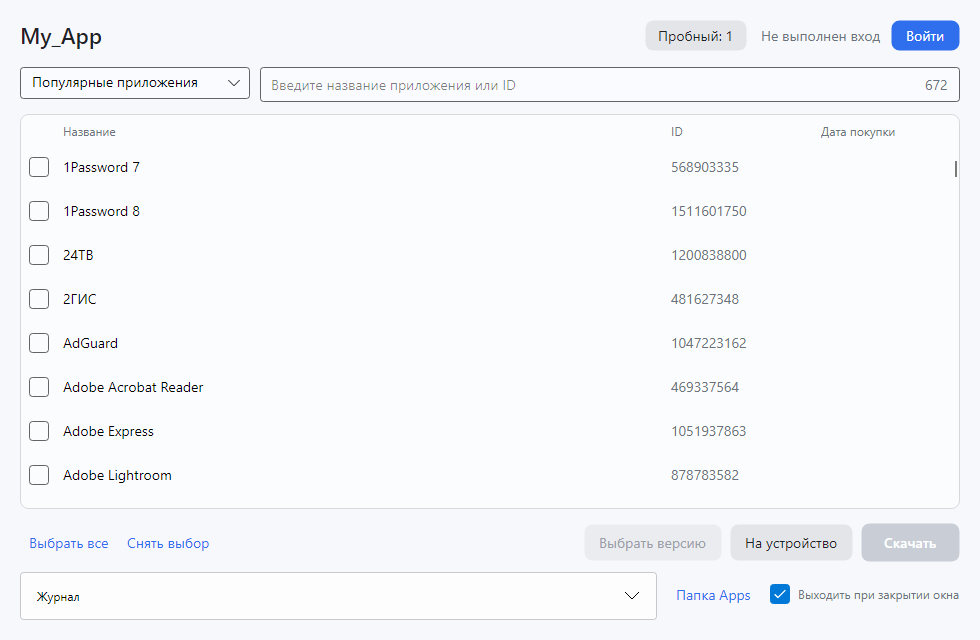
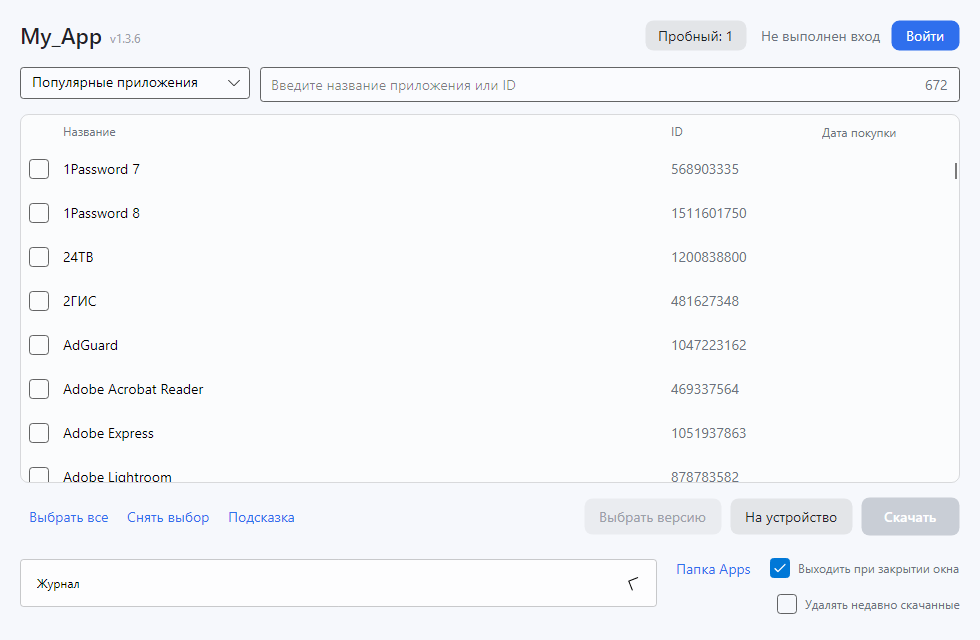
Guide: updated screenshots and steps (offloaded apps, other folder, help)

diff --git a/guide.html b/guide.html
@@ -41,7 +41,7 @@
   <main class="wrap doc">
 
     <h1>Инструкция по шагам</h1>
-    <p>Пять шагов от запуска до приложения на iPhone. Красные рамки на скриншотах показывают, куда нажимать.</p>
+    <p>Шесть шагов от запуска до приложения на iPhone. Красные рамки на скриншотах показывают, куда нажимать. Версия программы написана серым справа от названия в верхнем углу окна. Если что-то забыли, нажмите <b>«Подсказка»</b> под списком (см. <a href="#help">внизу страницы</a>).</p>
 
     <div class="important">
       <p><b>Важно.</b> Скачать можно только те приложения, которые уже были загружены на ваш Apple ID, в том числе те, которые потом убрали из App Store
@@ -55,8 +55,8 @@
       <p>Нажмите <b>«Войти»</b> в правом верхнем углу окна.</p>
       <div class="shot">
         <img src="img/guide/g1_main.png" alt="Главное окно My_App, кнопка «Войти» в правом верхнем углу" width="980" height="640" loading="lazy">
-        <span class="mark-box" style="left:90.8%;top:2.6%;width:7.6%;height:5.8%"></span>
-        <span class="mark-label" style="left:74%;top:9.4%">Нажмите «Войти»</span>
+        <span class="mark-box" style="left:90.8%;top:2.7%;width:7.6%;height:5.6%"></span>
+        <span class="mark-label" style="left:78%;top:16%">Нажмите «Войти»</span>
       </div>
     </section>
 
@@ -95,8 +95,8 @@
       <div class="shot">
         <img src="img/guide/g4_selected.png" alt="Отмечены два приложения, кнопка «Скачать (2)» активна" width="980" height="640" loading="lazy">
         <span class="mark-box" style="left:2.4%;top:24%;width:3.4%;height:10.8%"></span>
-        <span class="mark-box" style="left:85.5%;top:81.4%;width:12.6%;height:6.8%"></span>
-        <span class="mark-label" style="left:61%;top:90%">Затем «Скачать»</span>
+        <span class="mark-box" style="left:85.5%;top:77.2%;width:12.9%;height:7%"></span>
+        <span class="mark-label" style="left:80%;top:69.8%">Затем «Скачать»</span>
       </div>
     </section>
 
@@ -104,12 +104,52 @@
       <h2><span class="num">5</span> Поставьте приложение на iPhone</h2>
       <p>Подключите iPhone кабелем, разблокируйте и нажмите «Доверять этому компьютеру». В My_App нажмите <b>«На устройство»</b>. В окне отметьте
         свой iPhone и нужный файл и нажмите <b>«Установить»</b>. На Windows для связи с iPhone нужен драйвер Apple: программа сама подскажет, если его нет.</p>
+      <p>Файлы берутся из папки Apps. Если нужные файлы лежат в другом месте, нажмите маленькую кнопку с папкой справа над списком файлов и выберите папку.</p>
       <div class="shot">
         <img src="img/guide/g5_install.png" alt="Окно установки на устройство: список устройств и файлов, кнопка «Установить»" width="980" height="640" loading="lazy">
-        <span class="mark-box" style="left:17.4%;top:27.2%;width:2.8%;height:5.9%"></span>
-        <span class="mark-box" style="left:17.4%;top:49.6%;width:2.8%;height:5.9%"></span>
-        <span class="mark-box" style="left:16.8%;top:85.2%;width:10.7%;height:6.4%"></span>
-        <span class="mark-label" style="left:28.5%;top:86.4%">Отметьте iPhone и файл, затем «Установить»</span>
+        <span class="mark-box" style="left:17.4%;top:27.2%;width:2.8%;height:4.4%"></span>
+        <span class="mark-box" style="left:17.4%;top:51.8%;width:2.8%;height:4.4%"></span>
+        <span class="mark-box" style="left:16.9%;top:79.8%;width:10.6%;height:5.8%"></span>
+        <span class="mark-box" style="left:79.2%;top:41%;width:3.7%;height:4.8%"></span>
+        <span class="mark-box" style="left:62.4%;top:79.6%;width:20.9%;height:13.3%"></span>
+        <span class="mark-label" style="left:28.5%;top:86.6%">Отметьте iPhone и файл, затем «Установить»</span>
+        <span class="mark-label" style="left:64.5%;top:41.2%">Другая папка</span>
+        <span class="mark-label" style="left:63.5%;top:93.5%">Шаг 6: сгруженные</span>
+      </div>
+    </section>
+
+    <section class="guide-step" id="step6">
+      <h2><span class="num">6</span> Если приложение пропало с телефона (сгружено)</h2>
+      <p>Бывает, что приложение «сгружено»: на iPhone остался значок с облачком, а самого приложения нет (например, его убрали из App Store). My_App умеет находить такие
+        приложения и ставить их обратно.</p>
+      <p>В окне «На устройство» нажмите <b>«Приложения на iPhone»</b>: откроется весь список приложений телефона со значками, сгруженные показаны первыми.</p>
+      <div class="shot">
+        <img src="img/guide/g6_phoneapps.png" alt="Список приложений на iPhone со значками: сгруженные с облачком показаны первыми" width="980" height="640" loading="lazy">
+        <span class="mark-box" style="left:71%;top:18.4%;width:10%;height:17%"></span>
+        <span class="mark-label" style="left:56%;top:37%">Сгруженные (облачко)</span>
+      </div>
+      <p>Чтобы вернуть их, нажмите оранжевую кнопку <b>«Сгруженные приложения»</b> (она под кнопкой «Приложения на iPhone»). Программа найдёт их в истории покупок <b>того же Apple ID</b>,
+        под которым вы вошли. Отметьте нужные галочками и нажмите <b>«Скачать и установить»</b>: приложения скачиваются и ставятся на iPhone по одному, а файл после установки удаляется
+        из папки Apps.</p>
+      <div class="shot">
+        <img src="img/guide/g7_restore.png" alt="Сгруженные приложения, найденные в истории покупок: галочки и кнопка «Скачать и установить»" width="980" height="640" loading="lazy">
+        <span class="mark-box" style="left:17.1%;top:21.8%;width:2.9%;height:18%"></span>
+        <span class="mark-box" style="left:16.9%;top:85.4%;width:17.6%;height:6%"></span>
+        <span class="mark-label" style="left:21.5%;top:41.5%">Отметьте нужные</span>
+        <span class="mark-label" style="left:36%;top:86.6%">Затем «Скачать и установить»</span>
+      </div>
+      <div class="important">
+        <p>Если какое-то приложение не нашлось, скорее всего, оно куплено с <b>другого Apple ID</b> (на iPhone бывают приложения с разных аккаунтов). Войдите в тот аккаунт
+          и повторите. Либо в вашей истории оно называется иначе: тогда найдите его вручную в списке «История покупок».</p>
+      </div>
+    </section>
+
+    <section class="guide-step" id="help">
+      <h2>Подсказка в программе</h2>
+      <p>Под списком приложений есть кнопка <b>«Подсказка»</b>: короткая инструкция прямо в программе. В её окне также кнопка «Синонимы поиска»: свои правила, чтобы по слову
+        «сбер» находились и «СБОЛ», и «Онлайн».</p>
+      <div class="shot">
+        <img src="img/guide/g8_help.png" alt="Окно «Подсказка: как пользоваться»" width="980" height="640" loading="lazy">
       </div>
     </section>
 
